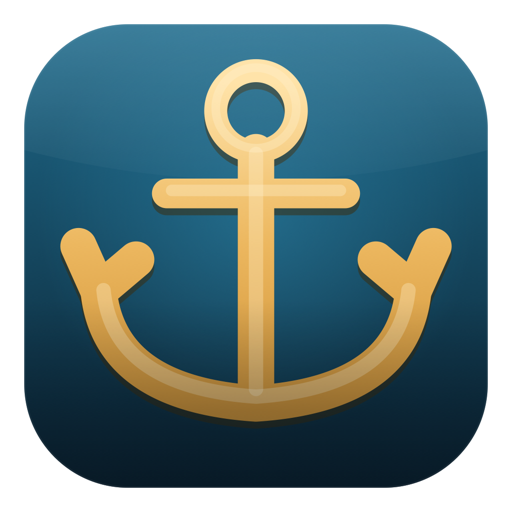
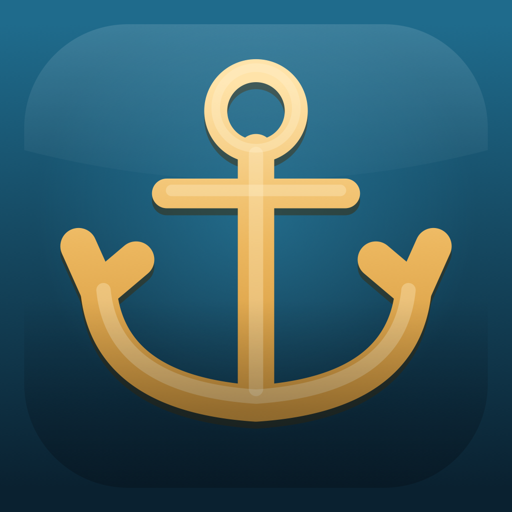
fix: align attention handoff and desktop shell polish

Changed region(s): [[0.0, 0.0, 1.0, 1.0]]

diff --git a/tests/desktop-shell.test.ts b/tests/desktop-shell.test.ts
@@ -1,0 +1,60 @@
+import { expect, test } from "bun:test";
+import { inflateSync } from "node:zlib";
+
+test("package exposes the AgentDeck product name", async () => {
+  const pkg = JSON.parse(await Bun.file("package.json").text()) as { productName?: string };
+  expect(pkg.productName).toBe("AgentDeck");
+});
+
+test("desktop shell uses a tray image and activate-to-show behavior", async () => {
+  const main = await Bun.file("electron/main.cjs").text();
+  expect(main).toContain("TRAY_ICON_PATH");
+  expect(main).toContain("new Tray(");
+  expect(main).not.toContain("nativeImage.createEmpty()");
+  expect(main).not.toContain('tray.setTitle("⚓")');
+  expect(main).toContain('app.on("activate"');
+});
+
+test("dock icon png does not have an opaque white frame", async () => {
+  const png = await Bun.file("electron/assets/icon.png").arrayBuffer();
+  const pixel = firstPixelRGBA(new Uint8Array(png));
+  const opaqueWhite = pixel[0] > 245 && pixel[1] > 245 && pixel[2] > 245 && pixel[3] > 245;
+  expect(opaqueWhite).toBe(false);
+});
+
+function firstPixelRGBA(bytes: Uint8Array): [number, number, number, number] {
+  const sig = [137, 80, 78, 71, 13, 10, 26, 10];
+  for (let i = 0; i < sig.length; i++) expect(bytes[i]).toBe(sig[i]);
+
+  let off = 8;
+  let width = 0;
+  let height = 0;
+  const idat: Uint8Array[] = [];
+  while (off < bytes.length) {
+    const len = readU32(bytes, off);
+    const type = new TextDecoder().decode(bytes.slice(off + 4, off + 8));
+    const data = bytes.slice(off + 8, off + 8 + len);
+    if (type === "IHDR") {
+      width = readU32(data, 0);
+      height = readU32(data, 4);
+      expect(data[8]).toBe(8); // bit depth
+      expect(data[9]).toBe(6); // RGBA
+      expect(data[12]).toBe(0); // no interlace
+    } else if (type === "IDAT") {
+      idat.push(data);
+    } else if (type === "IEND") {
+      break;
+    }
+    off += 12 + len;
+  }
+  expect(width).toBeGreaterThan(0);
+  expect(height).toBeGreaterThan(0);
+  const inflated = inflateSync(Buffer.concat(idat.map((x) => Buffer.from(x))));
+  // The first pixel has no left/up neighbors, so every legal PNG filter leaves
+  // these raw RGBA bytes unchanged for this one pixel.
+  return [inflated[1], inflated[2], inflated[3], inflated[4]];
+}
+
+function readU32(bytes: Uint8Array, off: number): number {
+  return ((bytes[off] << 24) | (bytes[off + 1] << 16) | (bytes[off + 2] << 8) | bytes[off + 3]) >>> 0;
+}

diff --git a/tests/server.test.ts b/tests/server.test.ts
@@ -34,7 +34,7 @@ test("CC Notification (sessionId+agent in query) -> waiting + emit", async () =>
   }
 });
 
-test("Codex agent-turn-complete (sessionId in body) -> idle", async () => {
+test("Codex agent-turn-complete (sessionId in body) -> waiting handoff", async () => {
   const hub = startHub(8800);
   try {
     hub.registry.upsert({ ...base, id: "s2" });
@@ -47,8 +47,22 @@ test("Codex agent-turn-complete (sessionId in body) -> idle", async () => {
         "last-assistant-message": "done",
       }),
     });
-    expect(hub.registry.get("s2")?.state).toBe("idle");
+    expect(hub.registry.get("s2")?.state).toBe("waiting");
     expect(hub.registry.get("s2")?.lastSummaryLine).toBe("done");
+  } finally {
+    hub.stop();
+  }
+});
+
+test("generic turn-complete before work stays resting", async () => {
+  const hub = startHub(8825);
+  try {
+    hub.registry.upsert({ ...base, id: "fresh", agent: "generic", state: "idle" });
+    await fetch("http://localhost:8825/events?sessionId=fresh&agent=generic", {
+      method: "POST",
+      body: JSON.stringify({ type: "turn-complete" }),
+    });
+    expect(hub.registry.get("fresh")?.state).toBe("idle");
   } finally {
     hub.stop();
   }

diff --git a/web/src/components/agent-mark-data.ts b/web/src/components/agent-mark-data.ts
@@ -1,4 +1,4 @@
-import { siAnthropic, siOpenai } from "simple-icons";
+import { siAnthropic, siClaude, siOpenai } from "simple-icons";
 import type { AgentKind } from "../types";
 
 export interface AgentMarkSpec {
@@ -8,19 +8,15 @@ export interface AgentMarkSpec {
 }
 
 // Monochrome vendor marks (nominative use, tinted via currentColor).
-// simple-icons paths are 24x24 fills; opencode/generic get hand-inlined
-// terminal glyphs on the same 24px grid drawn as strokes.
+// simple-icons paths are 24x24 fills; the generic shell mark is hand-inlined
+// on the same 24px grid and drawn as a stroke.
 export const AGENT_MARK: Record<AgentKind, AgentMarkSpec> = {
-  "claude-code": { title: "Anthropic", path: siAnthropic.path, mode: "fill" },
+  "claude-code": { title: "Claude", path: siClaude.path, mode: "fill" },
   codex: { title: "Codex", path: siOpenai.path, mode: "fill" },
-  opencode: {
-    title: "opencode",
-    path: "M3 5a2 2 0 0 1 2-2h14a2 2 0 0 1 2 2v14a2 2 0 0 1-2 2H5a2 2 0 0 1-2-2z M7 11l2-2-2-2 M11 13h4",
-    mode: "stroke",
-  },
+  opencode: { title: "opencode", path: siAnthropic.path, mode: "fill" },
   generic: {
     title: "Shell",
-    path: "M4 17l6-5-6-5 M12 19h8",
+    path: "M3 5a2 2 0 0 1 2-2h14a2 2 0 0 1 2 2v14a2 2 0 0 1-2 2H5a2 2 0 0 1-2-2z M7 11l2-2-2-2 M11 13h4",
     mode: "stroke",
   },
 };

diff --git a/src/adapters/claude-code.ts b/src/adapters/claude-code.ts
@@ -11,9 +11,9 @@ export function mapClaudeHook(sessionId: string, body: unknown): AdapterEvent {
     const message = asString(b.message);
     // Claude fires Notification for two very different things: a real block
     // that needs a decision ("Claude needs your permission to use Bash"), and a
-    // benign idle nudge after a finished turn ("Claude is waiting for your
-    // input"). Only the former deserves a "needs you" alarm — the idle nudge on
-    // an already-Resting agent is a false positive that pollutes the triage.
+    // generic turn-finished nudge ("Claude is waiting for your input"). The
+    // adapter only classifies the explicit block; state-machine context decides
+    // whether a generic turn end is a handoff or just a fresh idle session.
     if (isBlockingNotification(message)) {
       return { type: "needs-input", sessionId, at, summary: message };
     }
@@ -26,8 +26,8 @@ export function mapClaudeHook(sessionId: string, body: unknown): AdapterEvent {
 }
 
 // A Notification is a genuine block only when it asks for a decision. Claude's
-// permission/approval prompts carry these words; the idle "waiting for your
-// input" nudge does not, so it stays Resting.
+// permission/approval prompts carry these words; generic completion nudges do
+// not, so they flow through the normal turn-end path.
 function isBlockingNotification(message: string | undefined): boolean {
   if (!message) return false;
   return /permission|approv|confirm|authoriz|grant/i.test(message);

diff --git a/tests/agent-mark.test.ts b/tests/agent-mark.test.ts
@@ -1,4 +1,5 @@
 import { test, expect } from "bun:test";
+import { siAnthropic, siClaude, siOpenai } from "simple-icons";
 import { AGENT_MARK } from "../web/src/components/agent-mark-data";
 
 const AGENTS = ["claude-code", "codex", "opencode", "generic"] as const;
@@ -13,6 +14,13 @@ test("every agent kind has a mark", () => {
 test("vendor agents use vendor fill icons", () => {
   expect(AGENT_MARK["claude-code"].mode).toBe("fill");
   expect(AGENT_MARK.codex.mode).toBe("fill");
-  expect(AGENT_MARK.opencode.mode).toBe("stroke");
+  expect(AGENT_MARK.opencode.mode).toBe("fill");
   expect(AGENT_MARK.generic.mode).toBe("stroke");
+});
+
+test("agent marks match the visual language", () => {
+  expect(AGENT_MARK["claude-code"].path).toBe(siClaude.path);
+  expect(AGENT_MARK.codex.path).toBe(siOpenai.path);
+  expect(AGENT_MARK.opencode.path).toBe(siAnthropic.path);
+  expect(AGENT_MARK.generic.path).toContain("M3 5");
 });

diff --git a/tests/state-machine.test.ts b/tests/state-machine.test.ts
@@ -7,8 +7,12 @@ test("turn-start -> working", () => {
   expect(nextState("idle", { type: "turn-start", sessionId: "s", at })).toBe("working");
 });
 
-test("turn-end -> idle", () => {
-  expect(nextState("working", { type: "turn-end", sessionId: "s", at })).toBe("idle");
+test("turn-end after active work -> waiting handoff", () => {
+  expect(nextState("working", { type: "turn-end", sessionId: "s", at })).toBe("waiting");
+});
+
+test("turn-end before any active work stays idle", () => {
+  expect(nextState("idle", { type: "turn-end", sessionId: "s", at })).toBe("idle");
 });
 
 test("needs-input -> waiting", () => {

diff --git a/src/adapters/install.ts b/src/adapters/install.ts
@@ -7,8 +7,9 @@ export function hubEventsUrl(port: number, sessionId: string, agent: AgentKind):
 }
 
 // Claude Code settings whose hooks pipe the native hook JSON (stdin) to the hub.
-// UserPromptSubmit -> working, Notification -> waiting, Stop -> idle. Launched
-// via `claude --settings <file>`.
+// UserPromptSubmit -> working; explicit blocking Notification -> waiting;
+// Stop/completion nudges -> turn-end, with state-machine context deciding
+// handoff vs idle. Launched via `claude --settings <file>`.
 export function claudeSettings(port: number, sessionId: string): { hooks: Record<string, unknown> } {
   const command = `curl -s -X POST "${hubEventsUrl(port, sessionId, "claude-code")}" --data-binary @-`;
   const entry = [{ hooks: [{ type: "command", command }] }];

diff --git a/src/hub/state-machine.ts b/src/hub/state-machine.ts
@@ -1,12 +1,12 @@
 import type { SessionState } from "../types";
 import type { AdapterEvent } from "../adapters/types";
 
-export function nextState(_current: SessionState, event: AdapterEvent): SessionState {
+export function nextState(current: SessionState, event: AdapterEvent): SessionState {
   switch (event.type) {
     case "turn-start":
       return "working";
     case "turn-end":
-      return "idle";
+      return current === "working" ? "waiting" : "idle";
     case "needs-input":
       return "waiting";
     case "error":

diff --git a/tests/adapters.test.ts b/tests/adapters.test.ts
@@ -22,13 +22,13 @@ test("CC permission Notification -> needs-input (a real block)", () => {
   expect(e.type).toBe("needs-input");
 });
 
-test("CC idle-reminder Notification -> turn-end, not a needs-you alarm", () => {
+test("CC completion Notification -> turn-end without summary", () => {
   const e = mapClaudeHook("s", {
     hook_event_name: "Notification",
     message: "Claude is waiting for your input",
   });
   expect(e.type).toBe("turn-end");
-  // the idle nudge must not clobber the agent's last real message
+  // the generic completion nudge must not clobber the agent's last real message
   expect(e.type === "turn-end" && e.summary).toBeUndefined();
 });
 

diff --git a/tests/registry.test.ts b/tests/registry.test.ts
@@ -56,7 +56,7 @@ test("applyEvent clears a prior staleSince", () => {
   r.upsert(mk("a", { staleSince: 999, state: "working" }));
   const updated = r.applyEvent({ sessionId: "a", type: "turn-end", at: 5 });
   expect(updated?.staleSince).toBeUndefined();
-  expect(updated?.state).toBe("idle");
+  expect(updated?.state).toBe("waiting");
 });
 
 test("titleFromPrompt collapses whitespace and truncates", () => {